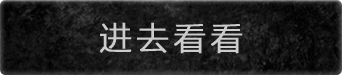
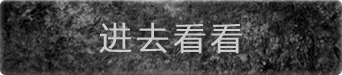
improve

diff --git a/src/sections/styles/blackhole.scss b/src/sections/styles/blackhole.scss
@@ -1,17 +1,19 @@
 .blackhole-bg {
   left: 0;
-  top: -20px;
+  top: 0;
   bottom: 0;
   right: 0;
   background-image: url(http://img.yzcdn.cn/public_files/2016/05/20/972301f32c7d0526123a98c2c16c4b2b.png);
 }
 
 .blackhole-star {
-  left: 0;
-  top: -55px;
-  bottom: 0;
-  right: 0;
-  background-image: url(http://img.yzcdn.cn/public_files/2016/05/20/4cb2dcb6454d260b7475a0620514b34e.png);
+  left: 50%;
+  top: 50%;
+  width: 649px;
+  height: 535.5px;
+  margin-left: -323.5px;
+  margin-top: -294.75px;
+  background-image: url(http://img.yzcdn.cn/public_files/2016/05/20/7e8c9f416fc2bae5e2d353a97a19c082.png);
 }
 
 .blackhole-star2 {
@@ -26,59 +28,63 @@
 .blackhole-text1 {
   left: 50%;
   margin-left: -66.75px;
-  top: 205px;
+  top: 175px;
   width: 133.5px;
   height: 128px;
   background-image: url(http://img.yzcdn.cn/public_files/2016/05/20/986ad95cab382d578726e93ae9104e5c.png);
   opacity: 0;
+  z-index: 30;
 }
 
 .blackhole-text2 {
   left: 50%;
   margin-left: -98px;
-  top: 170px;
+  top: 140px;
   width: 196px;
   height: 188px;
   background-image: url(http://img.yzcdn.cn/public_files/2016/05/20/d9f725549de477c32e1d5b0ddf58598a.png);
   opacity: 0;
+  z-index: 30;
 }
 
 .blackhole-text3 {
   left: 50%;
   margin-left: -139.75px;
-  top: 145px;
+  top: 115px;
   width: 279.5px;
   height: 242.5px;
   background-image: url(http://img.yzcdn.cn/public_files/2016/05/20/d6297ea74f15aca8d2bb552157c9660e.png);
   opacity: 0;
+  z-index: 30;
 }
 
 .blackhole-btn {
   left: 50%;
-  top: 460px;
+  top: 400px;
   width: 171px;
   height: 37.5px;
   margin-left: -85.5px;
-  background-image: url(http://img.yzcdn.cn/public_files/2016/05/20/82c0025bb2e02aeae17cc476990f88b7.png);
-  box-shadow: 0 0 5px 3px rgba(255,255,255,.3);
+  background-image: url(http://img.yzcdn.cn/public_files/2016/05/20/0e7d23b3332fdedc5403dfb5a7766e48.png);
+  box-shadow: 0 0 5px 0 rgba(255,255,255,.1);
   border-radius: 3px;
   opacity: 0;
-  animation: 1s blackholeBtn ease-in-out infinite alternate 8.5s,
-    .7s fadeIn ease-out forwards 7.3s;
+  animation:
+    .5s fadeIn ease-out forwards 7s,
+    3s blackholeBtn ease-in-out infinite alternate 8s;
 }
 
 .active {
   .blackhole-text1 {
-    animation: 1s fadeIn ease-out forwards 1s,
-      1s whirlpool linear forwards 4s;
+    animation: .3s fadeIn ease-out forwards 1s,
+      1s whirlpool ease-out forwards 3.5s;
   }
   .blackhole-text2 {
-    animation: 1s fadeIn ease-out forwards 2s,
-      1s whirlpool linear forwards 5s;
+    animation: .3s fadeIn ease-out forwards 2s,
+      1s whirlpool ease-out forwards 3.5s;
   }
   .blackhole-text3 {
-    animation: 1s fadeIn ease-out forwards 3s,
-      1s whirlpool linear forwards 6s;
+    animation: .3s fadeIn ease-out forwards 3s,
+      1s whirlpool ease-out forwards 3.5s;
   }
 
   .blackhole-bg.boom {
@@ -87,7 +93,7 @@
   }
 
   .blackhole-star {
-    animation: 2s linear blackholeStar infinite;
+    animation: 3s linear blackholeStar infinite;
   }
 }
 
@@ -125,10 +131,10 @@
 
 @keyframes blackholeBtn {
   0% {
-    box-shadow: 0 0 5px 3px rgba(255,255,255,.3);
+    box-shadow: 0 0 5px 0 rgba(255,255,255,.1);
   }
   100% {
-    box-shadow: 0 0 5px 0 rgba(255,255,255,.1);
+    box-shadow: 0 0 5px 2px rgba(255,255,255,.3);
   }
 }
 

diff --git a/src/sections/styles/start3.scss b/src/sections/styles/start3.scss
@@ -6,36 +6,60 @@
   background-image: url(http://img.yzcdn.cn/public_files/2016/05/19/5ed5c462c4d0806e07d8ae3d69c2b3f4.jpg);
 }
 
+.section-start3-cover {
+  left: 0;
+  top: 0;
+  right: 0;
+  bottom: 0;
+  background-color: rgba(0, 0, 0, 0);
+  z-index: 20;
+}
+
 .section-start3-haze {
   left: 10px;
   top: 400px;
   width: 190px;
   height: 121px;
   background-image: url(http://img.yzcdn.cn/public_files/2016/05/16/6ff0336216e9f1a4d9a66c906ec35b14.png);
-  transform: scale(.01);
+  transform: scale(0.01) translate3d(0, 0, 0);
+  z-index: 30;
 }
 
 
 .active {
   .section-start3-haze {
-    animation: hazeBoom .4s ease-in-out forwards .5s;
+    animation: hazeBoom .5s cubic-bezier(0, 1.4, 1, 1) 1s forwards;
+  }
+
+  .section-start3-cover {
+    animation: dim .5s linear .5s forwards;
   }
 }
 
 @keyframes hazeBoom {
   0% {
-    transform: scale(.01);
+    transform: scale(.01) translate3d(0, 0, 0);
   }
 
   70% {
-    transform: scale(1.1);
+    transform: scale(1.1) translate3d(0, 0, 0);
   }
 
   90% {
-    transform: scale(.9);
+    transform: scale(.9) translate3d(0, 0, 0);
   }
 
   100% {
-    transform: scale(1);
+    transform: scale(1) translate3d(0, 0, 0);
+  }
+}
+
+@keyframes dim {
+  0% {
+    background-color: rgba(0, 0, 0, 0);
+  }
+
+  100% {
+    background-color: rgba(0, 0, 0, .3);
   }
 }

diff --git a/src/sections/styles/start2.scss b/src/sections/styles/start2.scss
@@ -21,7 +21,7 @@
   width: 190px;
   height: 121px;
   background-image: url(http://img.yzcdn.cn/public_files/2016/05/16/6ff0336216e9f1a4d9a66c906ec35b14.png);
-  transform: translate3d(50px, 10px, 0);
+  transform: scale(0.01) translate3d(0, 0, 0);
 }
 
 
@@ -31,7 +31,7 @@
     animation: start2-people-sliding .5s cubic-bezier(0.785, 0.135, 0.15, 0.86) .5s forwards;
   }
   .section-start2-haze {
-    animation: start2-haze-sliding .6s cubic-bezier(0.785, 0.135, 0.15, 0.86) .5s forwards;
+    animation: hazeBoom .5s cubic-bezier(0, 1.4, 1, 1) 1s forwards;
   }
 }
 
@@ -46,12 +46,3 @@
   }
 }
 
-@keyframes start2-haze-sliding {
-  0% {
-    transform: translate3d(50px, 10px, 0);
-  }
-
-  100% {
-    transform: translate3d(0, 0, 0);
-  }
-}

diff --git a/src/sections/styles/start.scss b/src/sections/styles/start.scss
@@ -34,16 +34,16 @@
   width: 190px;
   height: 121px;
   background-image: url(http://img.yzcdn.cn/public_files/2016/05/16/6ff0336216e9f1a4d9a66c906ec35b14.png);
-  transform: translate3d(-20px, 0, 0);
+  transform: scale(0.01) translate3d(0, 0, 0);
 }
 
 .active {
   .section-start-haze {
-    animation: haze-sliding .5s cubic-bezier(0, 1.4, 1, 1) .5s forwards;
+    animation: hazeBoom .5s cubic-bezier(0, 1.4, 1, 1) 1.5s forwards;
   }
 
   .oxygen-pipe {
-    animation: oxygen-pipe 1s ease-out infinite alternate-reverse;
+    animation: oxygen-pipe .8s ease-out infinite alternate-reverse;
   }
 }
 

diff --git a/src/components/FullPage.js b/src/components/FullPage.js
@@ -79,7 +79,7 @@ export default class FullPage extends Component {
             <Motion key={index} style={sectionConfigs[i]}>
               {style =>
                 <Section
-                  active={currentPage === index}
+                  active={currentPage >= index}
                   style={{
                     WebkitTransform: `translate3d(0, ${style.top}%, 0)`,
                     transform: `translate3d(0, ${style.top}%, 0)`

diff --git a/src/components/ScreenAdapter.js b/src/components/ScreenAdapter.js
@@ -1,7 +1,7 @@
 import React from 'react'
 
 export default props => {
-  const originSize = { width: 320, height: 568 }
+  const originSize = { width: 320, height: 524 }
   const scale = Math.min(window.screen.width, 500) / originSize.width
   const style = {
     transform: `scale(${scale})`,

diff --git a/src/sections/Start3.js b/src/sections/Start3.js
@@ -5,4 +5,5 @@ import AnmElement from '../components/AnmElement'
 export default () =>
   <AnmElement className="section-start3-bg">
     <AnmElement className="section-start3-haze" />
+    <AnmElement className="section-start3-cover" />
   </AnmElement>
